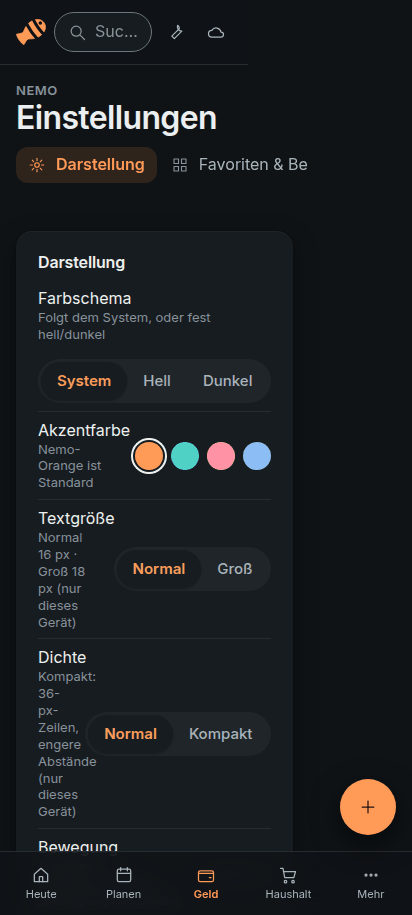
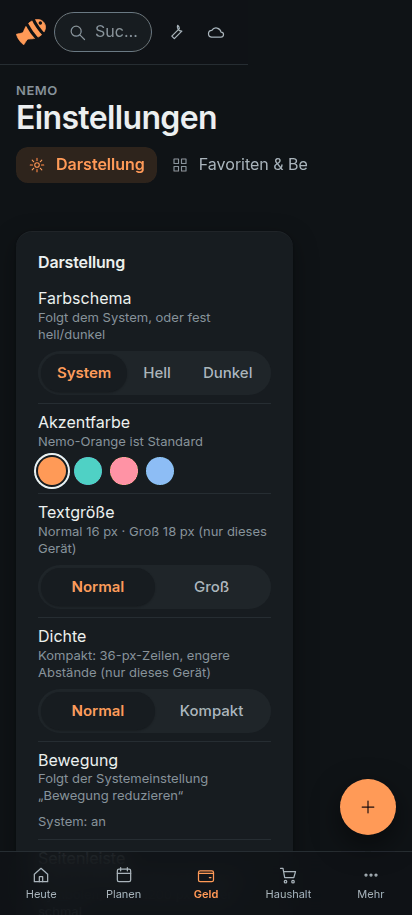
docs(design): Einstellungen mockup – stacked options on the phone
Claude-Session: https://claude.ai/code/session_01GEHGbRej2GuYtrBKne9KYq

diff --git a/docs/design/mockups/round-7/datentraeger.html b/docs/design/mockups/round-7/datentraeger.html
@@ -332,7 +332,7 @@ html[data-theme=light] .dlg{box-shadow:0 16px 48px rgb(23 31 36 / .18),0 2px 6px
 .favlist .star{color:var(--accent);margin-left:auto}
 .favlist .star.off{color:var(--text-3)}
 .secsub{font-size:.875rem;color:var(--text-2);padding-bottom:10px}
-@media (max-width:900px){.swrap{grid-template-columns:1fr}.snav{position:static;flex-direction:row;overflow-x:auto;scrollbar-width:none;margin:0 -16px 16px;padding:0 16px}.snav a{white-space:nowrap;min-height:36px}.snav .navh{display:none}.opt{flex-wrap:wrap}}
+@media (max-width:900px){.swrap{grid-template-columns:1fr}.snav{position:static;flex-direction:row;overflow-x:auto;scrollbar-width:none;margin:0 -16px 16px;padding:0 16px}.snav a{white-space:nowrap;min-height:36px}.snav .navh{display:none}.opt{flex-direction:column;align-items:flex-start;gap:8px}.opt .seg,.opt .swatches{align-self:stretch}.opt .seg span{flex:1;justify-content:center}.opt .sw{align-self:flex-end;margin-top:-34px}}
 html{font-size:16px}.app.l1{grid-template-columns:248px minmax(0,1fr)}</style></head>
 <body>
 <svg width="0" height="0" style="position:absolute" aria-hidden="true">

diff --git a/docs/design/mockups/round-7/einstellungen.html b/docs/design/mockups/round-7/einstellungen.html
@@ -332,7 +332,7 @@ html[data-theme=light] .dlg{box-shadow:0 16px 48px rgb(23 31 36 / .18),0 2px 6px
 .favlist .star{color:var(--accent);margin-left:auto}
 .favlist .star.off{color:var(--text-3)}
 .secsub{font-size:.875rem;color:var(--text-2);padding-bottom:10px}
-@media (max-width:900px){.swrap{grid-template-columns:1fr}.snav{position:static;flex-direction:row;overflow-x:auto;scrollbar-width:none;margin:0 -16px 16px;padding:0 16px}.snav a{white-space:nowrap;min-height:36px}.snav .navh{display:none}.opt{flex-wrap:wrap}}
+@media (max-width:900px){.swrap{grid-template-columns:1fr}.snav{position:static;flex-direction:row;overflow-x:auto;scrollbar-width:none;margin:0 -16px 16px;padding:0 16px}.snav a{white-space:nowrap;min-height:36px}.snav .navh{display:none}.opt{flex-direction:column;align-items:flex-start;gap:8px}.opt .seg,.opt .swatches{align-self:stretch}.opt .seg span{flex:1;justify-content:center}.opt .sw{align-self:flex-end;margin-top:-34px}}
 html{font-size:16px}.app.l1{grid-template-columns:248px minmax(0,1fr)}</style></head>
 <body>
 <svg width="0" height="0" style="position:absolute" aria-hidden="true">

diff --git a/docs/design/mockups/round-7/finanzen.html b/docs/design/mockups/round-7/finanzen.html
@@ -332,7 +332,7 @@ html[data-theme=light] .dlg{box-shadow:0 16px 48px rgb(23 31 36 / .18),0 2px 6px
 .favlist .star{color:var(--accent);margin-left:auto}
 .favlist .star.off{color:var(--text-3)}
 .secsub{font-size:.875rem;color:var(--text-2);padding-bottom:10px}
-@media (max-width:900px){.swrap{grid-template-columns:1fr}.snav{position:static;flex-direction:row;overflow-x:auto;scrollbar-width:none;margin:0 -16px 16px;padding:0 16px}.snav a{white-space:nowrap;min-height:36px}.snav .navh{display:none}.opt{flex-wrap:wrap}}
+@media (max-width:900px){.swrap{grid-template-columns:1fr}.snav{position:static;flex-direction:row;overflow-x:auto;scrollbar-width:none;margin:0 -16px 16px;padding:0 16px}.snav a{white-space:nowrap;min-height:36px}.snav .navh{display:none}.opt{flex-direction:column;align-items:flex-start;gap:8px}.opt .seg,.opt .swatches{align-self:stretch}.opt .seg span{flex:1;justify-content:center}.opt .sw{align-self:flex-end;margin-top:-34px}}
 html{font-size:16px}.app.l1{grid-template-columns:248px minmax(0,1fr)}</style></head>
 <body>
 <svg width="0" height="0" style="position:absolute" aria-hidden="true">

diff --git a/docs/design/mockups/round-7/kalender.html b/docs/design/mockups/round-7/kalender.html
@@ -332,7 +332,7 @@ html[data-theme=light] .dlg{box-shadow:0 16px 48px rgb(23 31 36 / .18),0 2px 6px
 .favlist .star{color:var(--accent);margin-left:auto}
 .favlist .star.off{color:var(--text-3)}
 .secsub{font-size:.875rem;color:var(--text-2);padding-bottom:10px}
-@media (max-width:900px){.swrap{grid-template-columns:1fr}.snav{position:static;flex-direction:row;overflow-x:auto;scrollbar-width:none;margin:0 -16px 16px;padding:0 16px}.snav a{white-space:nowrap;min-height:36px}.snav .navh{display:none}.opt{flex-wrap:wrap}}
+@media (max-width:900px){.swrap{grid-template-columns:1fr}.snav{position:static;flex-direction:row;overflow-x:auto;scrollbar-width:none;margin:0 -16px 16px;padding:0 16px}.snav a{white-space:nowrap;min-height:36px}.snav .navh{display:none}.opt{flex-direction:column;align-items:flex-start;gap:8px}.opt .seg,.opt .swatches{align-self:stretch}.opt .seg span{flex:1;justify-content:center}.opt .sw{align-self:flex-end;margin-top:-34px}}
 html{font-size:16px}.app.l1{grid-template-columns:248px minmax(0,1fr)}</style></head>
 <body>
 <svg width="0" height="0" style="position:absolute" aria-hidden="true">

diff --git a/docs/design/mockups/round-7/tresor.html b/docs/design/mockups/round-7/tresor.html
@@ -332,7 +332,7 @@ html[data-theme=light] .dlg{box-shadow:0 16px 48px rgb(23 31 36 / .18),0 2px 6px
 .favlist .star{color:var(--accent);margin-left:auto}
 .favlist .star.off{color:var(--text-3)}
 .secsub{font-size:.875rem;color:var(--text-2);padding-bottom:10px}
-@media (max-width:900px){.swrap{grid-template-columns:1fr}.snav{position:static;flex-direction:row;overflow-x:auto;scrollbar-width:none;margin:0 -16px 16px;padding:0 16px}.snav a{white-space:nowrap;min-height:36px}.snav .navh{display:none}.opt{flex-wrap:wrap}}
+@media (max-width:900px){.swrap{grid-template-columns:1fr}.snav{position:static;flex-direction:row;overflow-x:auto;scrollbar-width:none;margin:0 -16px 16px;padding:0 16px}.snav a{white-space:nowrap;min-height:36px}.snav .navh{display:none}.opt{flex-direction:column;align-items:flex-start;gap:8px}.opt .seg,.opt .swatches{align-self:stretch}.opt .seg span{flex:1;justify-content:center}.opt .sw{align-self:flex-end;margin-top:-34px}}
 html{font-size:16px}.app.l1{grid-template-columns:248px minmax(0,1fr)}</style></head>
 <body>
 <svg width="0" height="0" style="position:absolute" aria-hidden="true">
